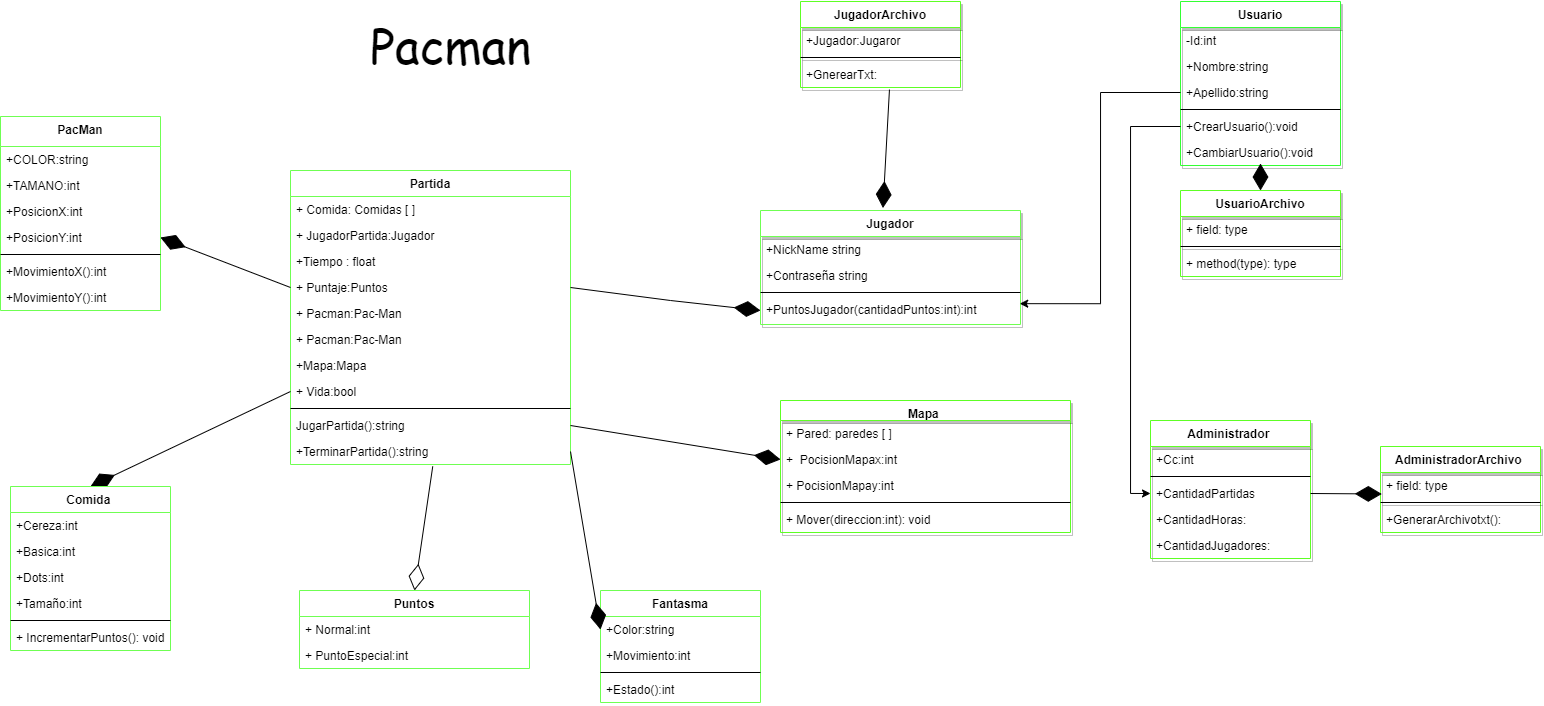
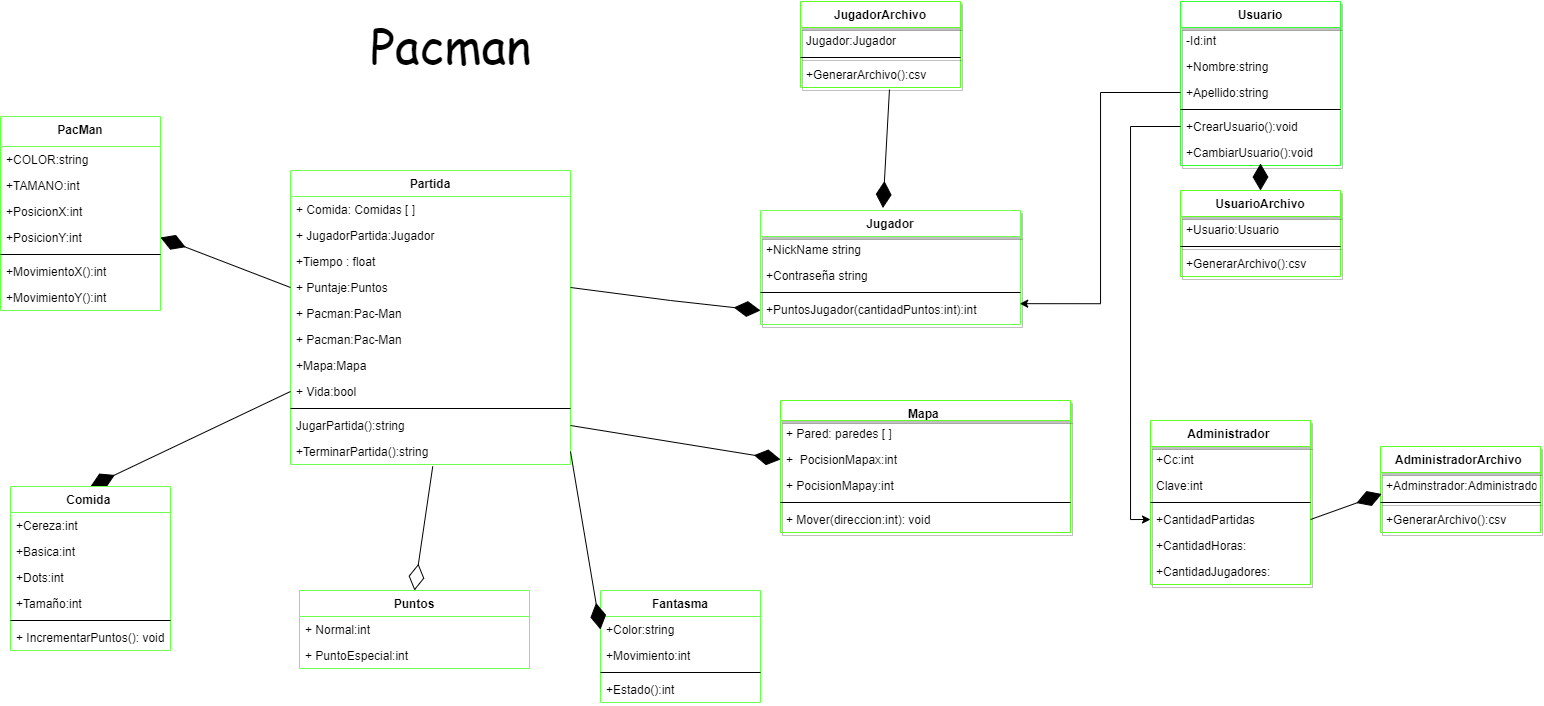
avance 8.0

diff --git a/Administrador.py b/Administrador.py
@@ -7,19 +7,55 @@ class Administrador(Usuario):
 
 
     Cc:int
+    Clave:int
     
-    def __init__(self,Cc:int):
+    def __init__(self,Cc:int,Clave:int):
 
         self.Cc=Cc
+        self.Clave:Clave
 
-    def __init__(self,Id:int,NombreUsuario:str):
+    def __init__(self,Id:int,Usuario:str):
         self.Id=Id
-        self.NombreUsuario=NombreUsuario
+        self.Usuario=Usuario
 
 
     
-    def CantidadPartidas(self):_void
+    def CantidadPartidas(self):
+        
+        return("Partidas jugadas en el mes")
 
-    def CantidadHoras(self):_void
+    def CantidadHoras(self):
+        
+        return("Horas de juego al mes ")
+
+
+    def CantidadJugadores(self):
+
+        return("Cantidad de jugadores en el mes ")
+
+
+
+    print  ("MENU\n\n1)-Nuevo\n2-most")
+
+opcion= input("elige una opcion")
+
+if opcion == "1" :
+        print ('registro\n')
+
+        archivo = open("AdministradorArchivo.csv","a")
+
+        
+        Cc= input("ingrese su cedula:   ")
+
+        clave= input("digite la clave de su maquina:    ")
+        
+
+
+        print ("se guardo correctamente:"   "+ Cedula+","Clave") 
+else:
+    print("elija  una opcion ")
+
+
+
+
     
-    def CantidadJugadores(self):_void

diff --git a/Jugador.py b/Jugador.py
@@ -1,3 +1,5 @@
+from Usuario import Usuario
+
 class Jugador(Usuario):
 
     #atributos
@@ -26,15 +28,15 @@ class Jugador(Usuario):
 
 print  ("MENU\n\n1)-Nuevo\n2-most")
 
-opcion= rawinput("elige una opcion")
+opcion= input("elige una opcion")
 
 if opcion == "1" :
         print ('registro\n')
 
         archivo = open("JugadorArchivo.csv","a")
 
-        NickName = raw_input("ingrese el NickName:   ")
-        Contraseña = raw_input("digite su contraseña:    ")
+        NickName = input("ingrese el NickName:   ")
+        Contraseña = input("digite su contraseña:    ")
 
 
         print ("se guardo correctamente:"   "+ NickName+","Contraseña") 
